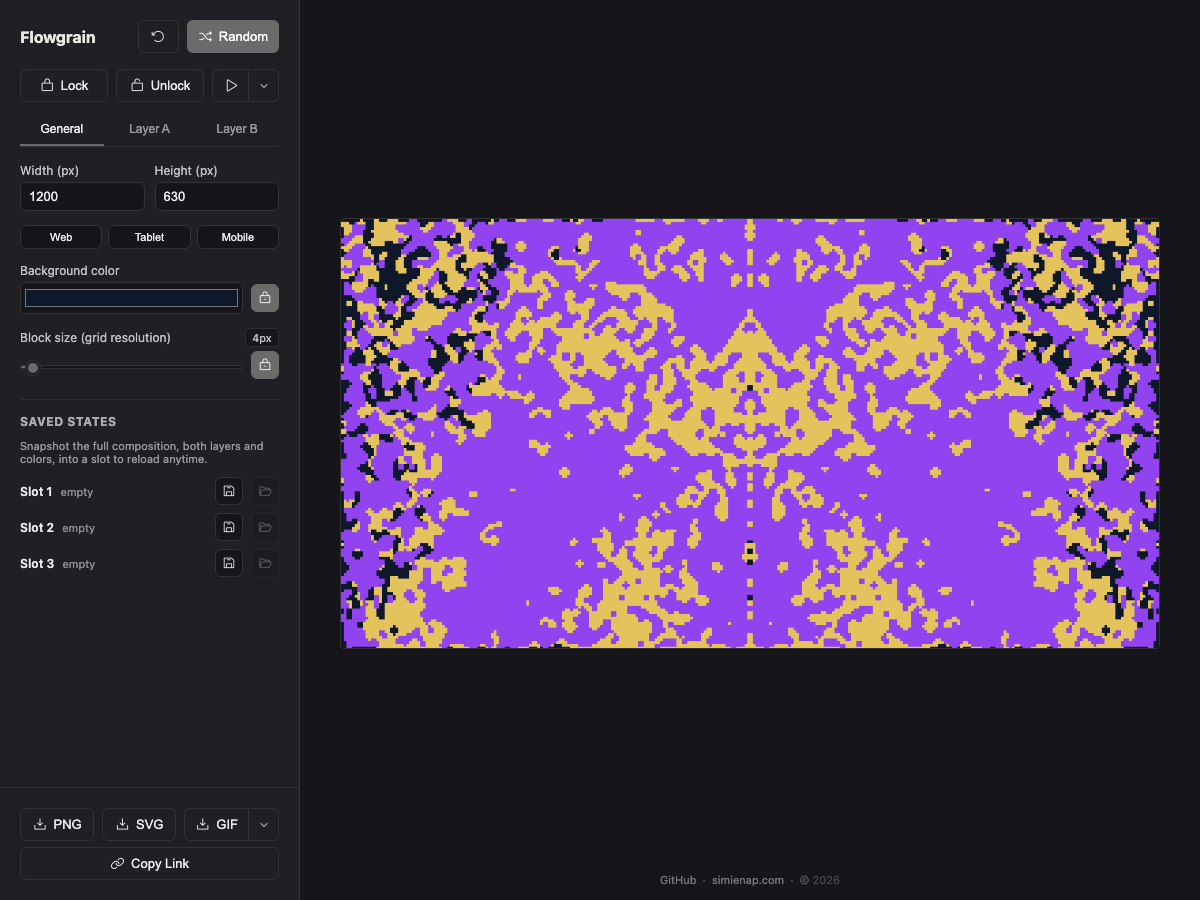
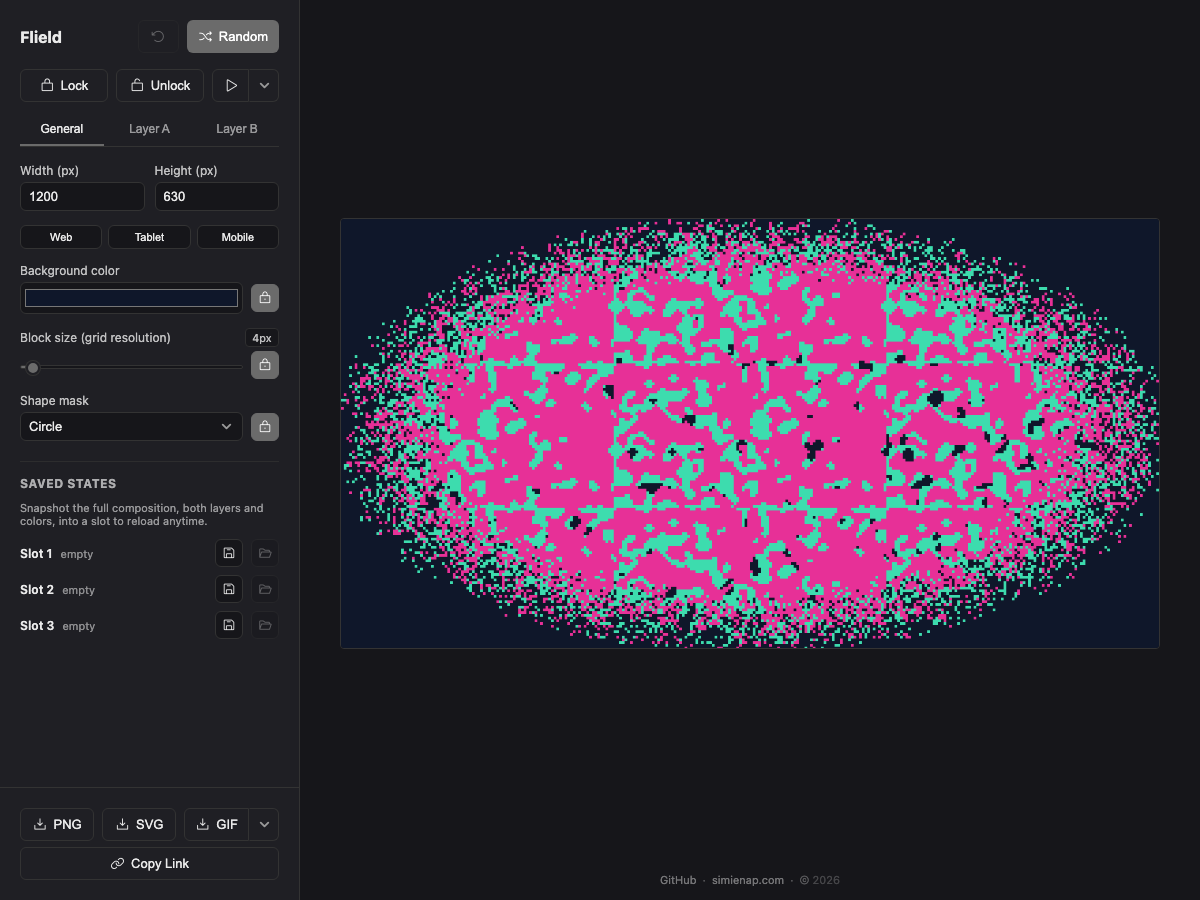
Bring docs and screenshot up to date with the current UI
README and USAGE.md still described a seven-mode symmetry field with no mention of Shape mask, and both undercounted which General-tab fields start locked (two, not three, now that Shape mask joined background color and block size). Updated the symmetry count and list to include Tile, added Shape mask to the features list and the tabs/locks tables, and fixed the same two-field undercount in three places across index.html's own code comments.

Also added a features bullet for the per-load favicon, which was real and shipped but never documented, and replaced screenshot.png, which predated the shape mask field, the Tile mode, and the rename entirely.

diff --git a/index.html b/index.html
@@ -396,12 +396,13 @@
     buildLayerControls(document.getElementById("tab-layerA"), "layerA");
     buildLayerControls(document.getElementById("tab-layerB"), "layerB");
 
-    // Background color and block size aren't per-layer fields, so their lock
-    // buttons (in the General tab's own markup, not the layer template)
-    // target their own id directly instead of a "<prefix>-<field>" one.
-    // Both start locked, so the initial composition keeps its intended
-    // starting values instead of an immediate randomize pass overwriting
-    // them; unlock either one to fold it into future randomize passes.
+    // Background color, block size, and shape mask aren't per-layer fields,
+    // so their lock buttons (in the General tab's own markup, not the layer
+    // template) target their own id directly instead of a "<prefix>-<field>"
+    // one. All three start locked, so the initial composition keeps its
+    // intended starting values instead of an immediate randomize pass
+    // overwriting them; unlock any of them to fold it into future randomize
+    // passes.
     document.querySelectorAll("#tab-general .lock-btn").forEach((btn) => {
       btn.dataset.targetId = btn.dataset.for;
       btn.addEventListener("click", () => setLock(btn, !lockedFields.has(btn.dataset.targetId)));
@@ -1008,8 +1009,8 @@
       if (e.key === "Escape") setSidebarOpen(false);
     });
 
-    // Shareable links: the full state (background, block size, both
-    // layers) round-trips through readOptions()/applyGeneral()/
+    // Shareable links: the full state (background, block size, shape mask,
+    // both layers) round-trips through readOptions()/applyGeneral()/
     // applyDefaults(), the same functions save-state slots already use,
     // just encoded into a URL instead of localStorage.
     function loadStateFromURL() {

diff --git a/README.md b/README.md
@@ -34,10 +34,11 @@ See [USAGE.md](USAGE.md) for the sidebar walkthrough and a couple of techniques 
 
 - Every page load opens on a freshly randomized composition
 - Two independently configurable color layers, each with its own seed, density, and directional flow field
-- Seven symmetry modes: 4-way mirror, horizontal, vertical, 180-degree rotational, diagonal, 8-way kaleidoscope, and none
+- Eight symmetry modes: 4-way mirror, horizontal, vertical, 180-degree rotational, diagonal, 8-way kaleidoscope, tile, and none
+- An optional circle or diamond shape mask, with a seeded dithered edge so the boundary blends into the noise instead of cutting it off sharply
 - Palette range controls (hue, saturation, lightness) with five presets, plus fully custom ranges
 - Density range controls, so a randomize pass can't drift all the way to a solid fill or an empty layer
-- Per-field locks, covering every layer setting plus background color and block size, so a randomize pass can hold specific settings steady while re-rolling the rest
+- Per-field locks, covering every layer setting plus background color, block size, and shape mask, so a randomize pass can hold specific settings steady while re-rolling the rest
 - Undo steps back through recent randomize passes, including ones from autoplay or a GIF export
 - A shareable link that encodes the exact composition, colors, both layers, everything, into a URL
 - Three save-state slots stored in the browser for revisiting a composition later
@@ -45,6 +46,7 @@ See [USAGE.md](USAGE.md) for the sidebar walkthrough and a couple of techniques 
 - Export to PNG, SVG, or an animated GIF, with frame count (1, 2, 3, 5, 8, or 13) and speed both configurable
 - Responsive sidebar that collapses into a toggleable drawer on narrow screens
 - Fully offline: every dependency is vendored in the repo, no CDN, no network connection needed
+- A generated favicon: the browser tab icon regenerates on every load, in the same three colors as the composition on screen
 
 ## Running locally
 
@@ -56,4 +58,4 @@ Flield is plain HTML, CSS, and JavaScript. No build step, no package manager.
 
 ## How it works
 
-Each layer's shape comes from a seeded value noise field (a small Perlin-style implementation in `generator.js`), rotated and stretched to create a directional flow instead of isolated static. That field biases each cell's fill probability rather than gating cells on or off directly, which produces smooth density gradients across the canvas. Symmetry modes apply as a final mirror or rotation pass over the generated grid.
+Each layer's shape comes from a seeded value noise field (a small Perlin-style implementation in `generator.js`), rotated and stretched to create a directional flow instead of isolated static. That field biases each cell's fill probability rather than gating cells on or off directly, which produces smooth density gradients across the canvas. Symmetry modes apply as a final mirror, rotation, or (for Tile) translation pass over the generated grid. A shape mask, when set, constrains the composition to a circle or diamond with a seeded dither along the boundary instead of a hard cutoff, so the edge reads as part of the texture rather than a clipped shape.

diff --git a/USAGE.md b/USAGE.md
@@ -10,7 +10,7 @@
 - Every composition is **three colors**: a background, plus two independently generated artwork layers.
 - Each layer runs on its own **seed**, so the same seed and settings always regenerate the same result.
 - The canvas sits on the right; every control that shapes it lives in the sidebar on the left.
-- Every page load opens on a **freshly randomized** composition instead of a fixed default, background color and block size aside (more on why in [Locks](#locks)).
+- Every page load opens on a **freshly randomized** composition instead of a fixed default, background color, block size, and shape mask aside (more on why in [Locks](#locks)).
 
 ## Navigating the sidebar
 
@@ -18,8 +18,8 @@
 
 | Tab | What it holds |
 |---|---|
-| **General** | Canvas width and height (with Web, Tablet, and Mobile presets), background color, and grid resolution (block size) |
-| **Layer A** / **Layer B** | That layer's seed, color, palette range, density range, flow field, and symmetry mode |
+| **General** | Canvas width and height (with Web, Tablet, and Mobile presets), background color, grid resolution (block size), and shape mask |
+| **Layer A** / **Layer B** | That layer's seed, color, palette range, density range, flow field, symmetry mode, and smoothing |
 
 ### On a narrow screen
 
@@ -27,11 +27,11 @@ The sidebar becomes a drawer instead of a permanent column. A toggle button in t
 
 ### Locks
 
-Every randomizable field, background color and block size included, has a small lock icon next to it.
+Every randomizable field, background color, block size, and shape mask included, has a small lock icon next to it.
 
 - A **locked** field holds its current value through a randomize pass instead of getting a new one.
 - **Lock** and **Unlock** at the top of the sidebar apply to every field at once.
-- Background color and block size **start locked**. That's why a fresh page load keeps its starting background and grid resolution steady while everything else randomizes around them. Unlock either one to fold it into future randomize and Auto-randomize passes.
+- Background color, block size, and shape mask **start locked**. That's why a fresh page load keeps its starting background, grid resolution, and shape steady while everything else randomizes around them. Unlock any of the three to fold it into future randomize and Auto-randomize passes.
 
 ### Saving and sharing a composition
 
